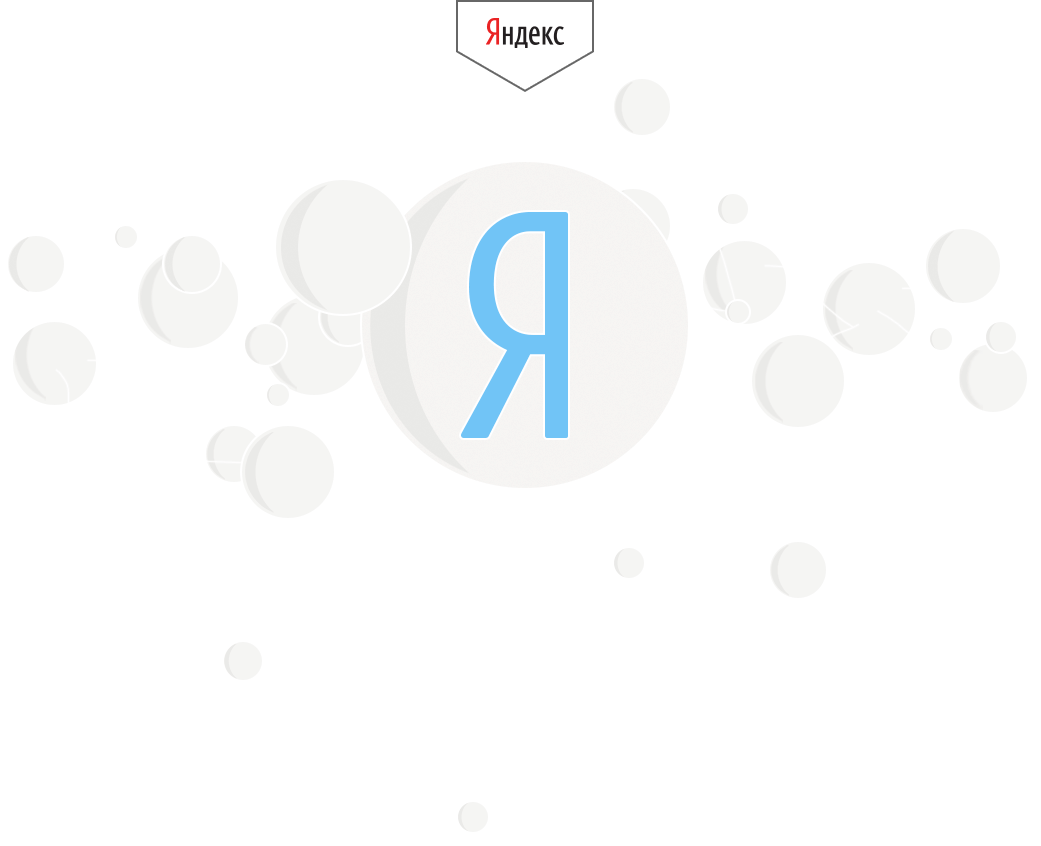
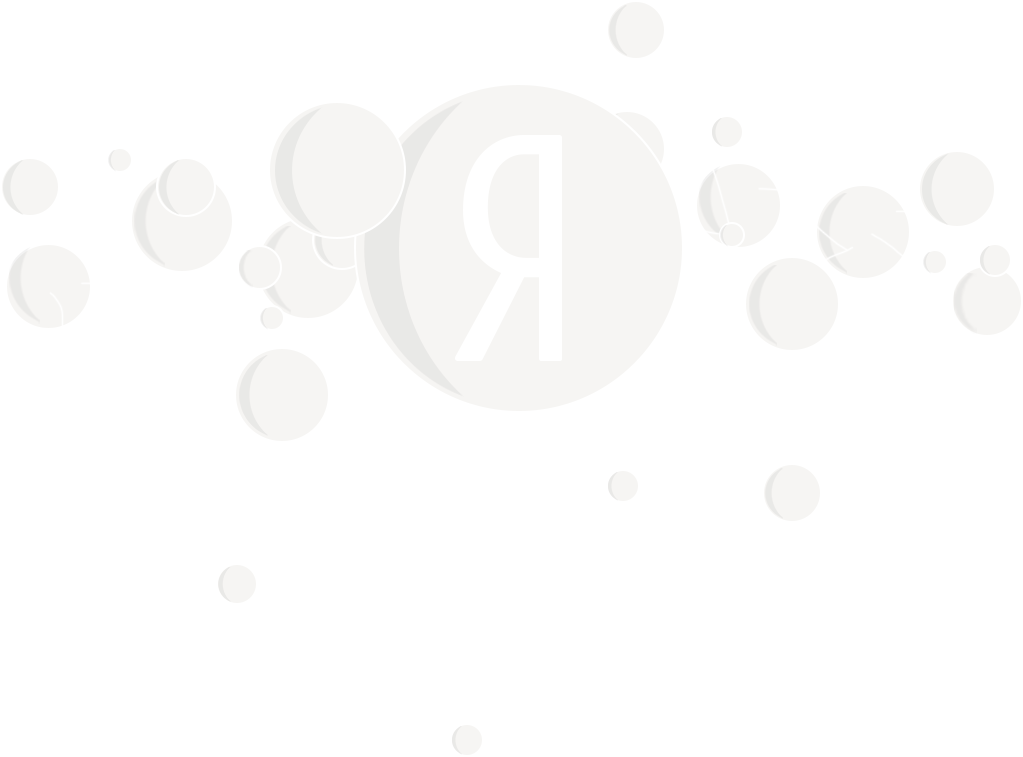
Поправки.

diff --git a/index.html b/index.html
@@ -10,25 +10,21 @@
         <input type="radio" name="people" id="alex">
         <input type="radio" name="people" id="george">
         <section class="header">
+            <img src="ya-label.png" class="ya-label">
             <h1>— А что если интернет подстроится под меня?</h1>
             <div class="fstsection">
+                <img src="bubbles.png" class="bubbles">
                 <div class="head_discript">
                     <p>
-                        Ин&shy;тер&shy;нет се&shy;го&shy;дня — это не толь&shy;ко 
-                        ин&shy;фор&shy;ма&shy;ция и тех&shy;но&shy;ло&shy;гии, это лю&shy;ди: их 
-                        же&shy;ла&shy;ния, пред&shy;по&shy;чте&shy;ния, за&shy;да&shy;чи. Лю&shy;ди
-                        — вот ато&shy;мы, из ко&shy;то&shy;рых на са&shy;мом де&shy;ле
-                        со&shy;сто&shy;ит циф&shy;ро&shy;вая ма&shy;те&shy;рия; и эти лю&shy;ди
-                        очень, очень раз&shy;ные. Се&shy;го&shy;дня по&shy;иск уме&shy;ет
-                        под&shy;стра&shy;и&shy;вать&shy;ся, по&shy;мо&shy;гая лю&shy;дям
-                        быст&shy;рее при&shy;хо&shy;дить к тем ре&shy;ше&shy;ни&shy;ям,
-                        ко&shy;то&shy;рые им нуж&shy;ны.
+                        Интернет сегодня — это не только информация и техноло-<br>гии, это люди: их
+                        желания, предпочтения, задачи. Люди —<br>вот атомы, из которых на самом деле
+                        состоит цифровая<br>материя; и эти люди очень, очень разные. Сегодня поиск
+                        <br>умеет подстраиваться, помогая людям быстрее приходить к<br>тем решениям,
+                        которые им нужны.
                     </p>
                     <p>
-                        Мы пред&shy;став&shy;ля&shy;ем Атом: со&shy;во&shy;куп&shy;ность
-                        ин&shy;стру&shy;мен&shy;тов, при&shy;зван&shy;ных на&shy;учить
-                        ин&shy;тер&shy;нет под&shy;стра&shy;и&shy;вать&shy;ся под раз&shy;ных
-                        лю&shy;дей, ко&shy;то&shy;рые им нуж&shy;ны.
+                        Мы представляем Атом: совокупность инструментов, при-<br>званных научить
+                        интернет подстраиваться под разных<br>людей, которые им нужны.
                     </p>
                 </div>
                 <div class="video">
@@ -47,8 +43,8 @@
                         Максим
                     </label>
                     <div class="disc-max">
-                        Предпочитает путешествовать самостоятельно и налегке. Уверен, что только так
-                        можно проникнуться культурой.
+                        Предпочитает путешествовать само-<br>стоятельно и налегке. Уверен, что<br>
+                        только так можно проникнуться культурой.
                     </div>
                 </div>
                 <div class="alex">
@@ -57,8 +53,8 @@
                         Алексей Быков
                     </label>
                     <div class="disc-alex">
-                        В отпуск ездит вместе с женой и дочкой. Считает, что отдыхать лучше всего в
-                        отелях на побережье.
+                        В отпуск ездит вместе с женой и<br>дочкой. Считает, что отдыхать лучше<br>
+                        всего в отелях на побережье.
                     </div>
                 </div>
                 <div class="george">
@@ -67,42 +63,44 @@
                         Георгий И. Дауге
                     </label>
                     <div class="disc-george">
-                        Очень дорожит редкими отпусками и превыше всего ценит комфорт и качество
-                        обслуживания.
+                        Очень дорожит редкими отпусками и<br>превыше всего ценит комфорт и каче-<br>
+                        ство обслуживания.
                     </div>
                 </div>
             </div>
             <div class="main-top">
                 <div class="left">
                     <p>
-                        Юра сразу покупает тур: в его ситуации так очевидно проще. Основные вводные
-                        - приемлемого качества.
+                        Юра сразу покупает тур: в его ситуа-<br>ции так очевидно проще. Основные<br>
+                        вводные - приемлемого качества.
                     </p>
                     <p>
-                        Отель в центре тайской жизни: чтобы и еда, и качественный пляж,
-                        достопримечательности, и рестораны.
+                        Отель в центре тайской жизни: чтобы и<br>еда, и качественный пляж,
+                        достопри-<br>мечательности, и рестораны.
                     </p>
                 </div>
             </div>
             <div class="main-center">
                 <div class="right">
                     <p>
-                        Юра носит линзы, и у него как раз закачивается запас - нужно купить новые.
+                        Юра носит линзы, и у него как раз за-<br>качивается запас - нужно купить<br>
+                        новые.
                     </p>
                     <p>
-                        Отель в центре тайской жизни: чтобы и еда, и качественный пляж, 
-                        достопримечательности, и рестораны.
+                        Отель в центре тайской жизни: чтобы и<br>еда, и качественный пляж, достопри-
+                        <br>мечательности, и рестораны.
                     </p>
                 </div>
             </div>
             <div class="main-bottom">
                 <div class="left">
                     <p>
-                        Что Юра точно не хочет упустить, так это возможность попробовать местную еду.
+                        Что Юра точно не хочет упустить, так<br>это возможность попробовать местную
+                        <br>еду.
                     </p>
                     <p>
-                        Каждый вечер они с женой - иногда с детьми, иногда вдвоём - отправляются в
-                        новый местный ресторан.
+                        Каждый вечер они с женой - иногда с<br>детьми, иногда вдвоём - отправляются
+                        в<br>новый местный ресторан.
                     </p>
                 </div>
             </div>
@@ -130,12 +128,12 @@
         <section class="footer">
             <div class="description">
                 <p>
-                    Интернет сегодня — это не только информация и технологии, это люди: их желания,
-                    предпочтения, задачи. Люди — вот атомы, из которых на самом деле состоит
-                    цифровая материя; и эти люди очень, очень разные.
+                    Интернет сегодня — это не только информация и техноло-<br>гии, это люди: их желания,
+                    предпочтения, задачи. Люди —<br>вот атомы, из которых на самом деле состоит
+                    цифровая<br>материя; и эти люди очень, очень разные.
                 </p>
                 <p>
-                    Теперь посмотрите, как планировали путешествие в Тайланд Алексей Быков и Георгий
+                    Теперь посмотрите, как планировали путешествие в Таи-<br>ланд Алексей Быков и Георгий
                     И. Дауге.
                 </p>
                 <div class="social">

diff --git a/index.css b/index.css
@@ -14,6 +14,12 @@ input
     display: none;
 }
 
+.ya-label
+{
+    margin-left: 431px;
+    margin-top: -2px;
+}
+
 #max:checked ~ section
 {
     background-color: #ffe05d;
@@ -32,7 +38,7 @@ input
 .header
 {
     background: url(header.png);
-    background-position: center -2px;
+    background-position: center 80px;
     background-repeat: no-repeat;
     border: 2px solid black;
 }
@@ -41,7 +47,14 @@ h1
 {
     text-align: center;
     font-size: 45px;
-    padding: 325px 100px 45px;
+    padding: 250px 100px 45px;
+}
+
+.bubbles
+{
+    width: 216px;
+    height: 60px;
+    transform: translateX(593px) translateY(-27px);
 }
 
 .fstsection
@@ -53,12 +66,20 @@ h1
 .head_discript
 {
     width: 410px;
-    padding: 65px 100px 10px;
+    padding: 55px 0 10px;
+    transform: translateX(-90px);
+}
+
+p
+{
+    font-size: 16px;
+    line-height: 1.5;
 }
 
 .video
 {
-    padding: 90px;
+    padding: 75px;
+    transform: translateX(-40px);
 }
 
 .svg-play
